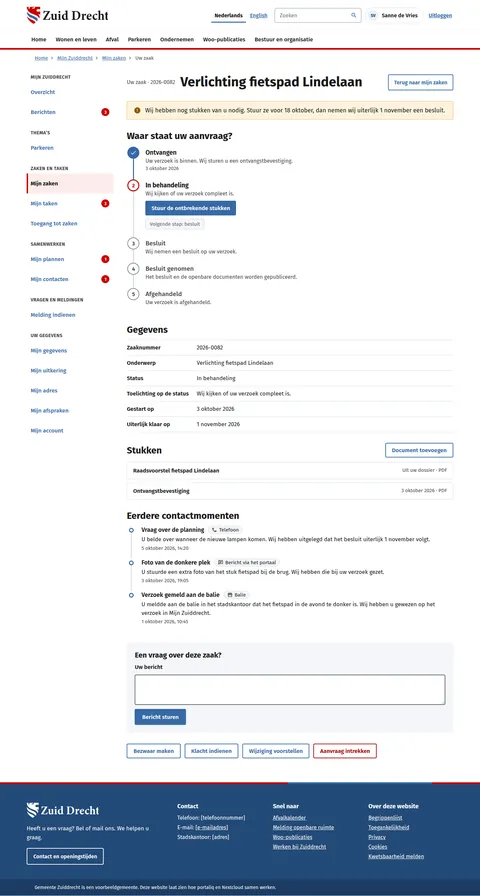
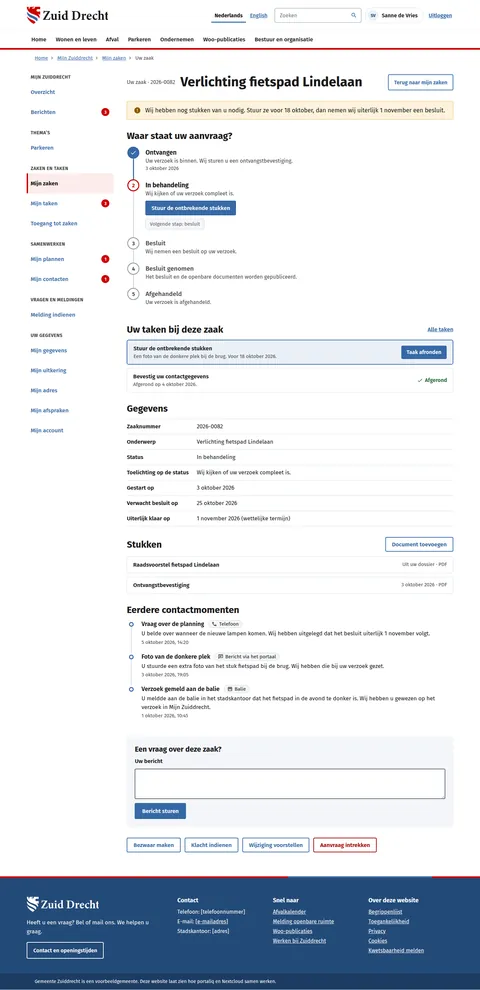
feat(screens): Zaak draws the tasks on the case and the expected decision date; case boards name their rows
Zaak gets a section with the tasks on the case (one open with Complete task, one completed) and the expected decision date beside the legal latest date. The capability notes of Zaak, MobielZaak, ZaakAfgerond, TaakAfronden and ZaakVolgen name the portaliq matrix rows and specs they draw (cas-detail, cmp-cas-status-timeline, cas-tasks-on-case, cas-expected-decision-date, cas-status-call-to-action, cmp-act-ask-question-case, dem-tnd-portal-talk-on-case, dem-cl-case-outcome-explained, int-status-lookup).

Portaliq coverage matrix, gap list (b), lane pt-boards-b.

diff --git a/screens-src/zuiddrecht/Zaak.dc.html b/screens-src/zuiddrecht/Zaak.dc.html
@@ -48,6 +48,21 @@ a{color:#3669a5}a:hover{color:#234a78}
           </sc-for>
         </ol>
       </section>
+      <section aria-labelledby="taken" style="display: flex; flex-direction: column; gap: 14px">
+        <div style="display: flex; flex-wrap: wrap; justify-content: space-between; align-items: center; gap: 12px">
+          <h2 id="taken" style="margin: 0; font-size: 28px; font-weight: 700">Uw taken bij deze zaak</h2>
+          <a href="MijnTaken.dc.html" style="font-size: 17px; font-weight: 600">Alle taken</a>
+        </div>
+        <ul style="margin: 0; padding: 0; list-style: none; display: flex; flex-direction: column; gap: 10px">
+          <sc-for list="{{ tasks }}" as="t" hint-placeholder-count="2">
+            <li style="{{ t.box }}">
+              <span style="display: flex; flex-direction: column; gap: 4px; min-width: 0; flex: 1 1 320px"><span style="font-size: 17px; font-weight: 600">{{ t.title }}</span><span style="font-size: 15px; color: #4a4a4a">{{ t.line }}</span></span>
+              <sc-if value="{{ t.open }}" hint-placeholder-val="{{ true }}"><a href="TaakAfronden.dc.html" style="display: inline-flex; align-items: center; height: 40px; box-sizing: border-box; padding: 0 16px; border-radius: 4px; background: #3669a5; color: #ffffff; font-size: 16px; font-weight: 600; text-decoration: none">Taak afronden</a></sc-if>
+              <sc-if value="{{ t.done }}" hint-placeholder-val="{{ false }}"><span style="display: inline-flex; align-items: center; gap: 6px; font-size: 16px; font-weight: 600; color: #1f6b3a"><svg width="18" height="18" viewBox="0 0 24 24" fill="currentColor" aria-hidden="true"><path d="M21,7L9,19L3.5,13.5L4.91,12.09L9,16.17L19.59,5.59L21,7Z"></path></svg>Afgerond</span></sc-if>
+            </li>
+          </sc-for>
+        </ul>
+      </section>
       <section aria-labelledby="gegevens" style="display: flex; flex-direction: column; gap: 14px">
         <h2 id="gegevens" style="margin: 0; font-size: 28px; font-weight: 700">Gegevens</h2>
         <dl style="margin: 0; display: grid; grid-template-columns: minmax(180px, max-content) 1fr; gap: 0; font-size: 17px; border-top: 1px solid #d3d8df">
@@ -125,7 +140,13 @@ class Component extends DCLogic {
     const facts = [
       { k: 'Zaaknummer', v: '2026-0082' }, { k: 'Onderwerp', v: 'Verlichting fietspad Lindelaan' },
       { k: 'Status', v: 'In behandeling' }, { k: 'Toelichting op de status', v: 'Wij kijken of uw verzoek compleet is.' },
-      { k: 'Gestart op', v: '3 oktober 2026' }, { k: 'Uiterlijk klaar op', v: '1 november 2026' }
+      { k: 'Gestart op', v: '3 oktober 2026' }, { k: 'Verwacht besluit op', v: '25 oktober 2026' },
+      { k: 'Uiterlijk klaar op', v: '1 november 2026 (wettelijke termijn)' }
+    ];
+    const taskBox = (open) => 'display: flex; flex-wrap: wrap; justify-content: space-between; align-items: center; gap: 12px 16px; padding: 14px 18px; border-radius: 6px; ' + (open ? 'border: 2px solid #3669a5; background: #eaf0f7;' : 'border: 1px solid #d3d8df;');
+    const tasks = [
+      { title: 'Stuur de ontbrekende stukken', line: 'Een foto van de donkere plek bij de brug. Voor 18 oktober 2026.', open: true, done: false, box: taskBox(true) },
+      { title: 'Bevestig uw contactgegevens', line: 'Afgerond op 4 oktober 2026.', open: false, done: true, box: taskBox(false) }
     ];
     const contactRows = [
       ['Telefoon', 'M20,15.5C18.8,15.5 17.5,15.3 16.4,14.9C16.3,14.9 16.2,14.9 16.1,14.9C15.8,14.9 15.6,15 15.4,15.2L13.2,17.4C10.4,15.9 8,13.6 6.6,10.8L8.8,8.6C9.1,8.3 9.2,7.9 9,7.6C8.7,6.5 8.5,5.2 8.5,4C8.5,3.5 8,3 7.5,3H4C3.5,3 3,3.5 3,4C3,13.4 10.6,21 20,21C20.5,21 21,20.5 21,20V16.5C21,16 20.5,15.5 20,15.5M5,5H6.5C6.6,5.9 6.8,6.8 7,7.6L5.8,8.8C5.4,7.6 5.1,6.3 5,5M19,19C17.7,18.9 16.4,18.6 15.2,18.2L16.4,17C17.2,17.2 18.1,17.4 19,17.4V19Z', 'Vraag over de planning', 'U belde over wanneer de nieuwe lampen komen. Wij hebben uitgelegd dat het besluit uiterlijk 1 november volgt.', '5 oktober 2026, 14:20', '2026-10-05T14:20'],
@@ -133,7 +154,7 @@ class Component extends DCLogic {
       ['Balie', 'M5.06 3C4.63 3 4.22 3.14 3.84 3.42S3.24 4.06 3.14 4.5L2.11 8.91C1.86 10 2.06 10.95 2.72 11.77L3 12.05V19C3 19.5 3.2 20 3.61 20.39S4.5 21 5 21H19C19.5 21 20 20.8 20.39 20.39S21 19.5 21 19V12.05L21.28 11.77C21.94 10.95 22.14 10 21.89 8.91L20.86 4.5C20.73 4.06 20.5 3.7 20.13 3.42C19.77 3.14 19.38 3 18.94 3H5.06M18.89 4.97L19.97 9.38C20.06 9.81 19.97 10.2 19.69 10.55C19.44 10.86 19.13 11 18.75 11C18.44 11 18.17 10.9 17.95 10.66C17.73 10.43 17.61 10.16 17.58 9.84L16.97 5L18.89 4.97M5.06 5H7.03L6.42 9.84C6.3 10.63 5.91 11 5.25 11C4.84 11 4.53 10.86 4.31 10.55C4.03 10.2 3.94 9.81 4.03 9.38L5.06 5M9.05 5H11V9.7C11 10.05 10.89 10.35 10.64 10.62C10.39 10.88 10.08 11 9.7 11C9.36 11 9.07 10.88 8.84 10.59S8.5 10 8.5 9.66V9.5L9.05 5M13 5H14.95L15.5 9.5C15.58 9.92 15.5 10.27 15.21 10.57C14.95 10.87 14.61 11 14.2 11C13.89 11 13.61 10.88 13.36 10.62C13.11 10.35 13 10.05 13 9.7V5M7.45 12.05C8.08 12.67 8.86 13 9.8 13C10.64 13 11.38 12.67 12 12.05C12.69 12.67 13.45 13 14.3 13C15.17 13 15.92 12.67 16.55 12.05C17.11 12.67 17.86 13 18.8 13H19.03V19H5V13H5.25C6.16 13 6.89 12.67 7.45 12.05Z', 'Verzoek gemeld aan de balie', 'U meldde aan de balie in het stadskantoor dat het fietspad in de avond te donker is. Wij hebben u gewezen op het verzoek in Mijn Zuiddrecht.', '1 oktober 2026, 10:45', '2026-10-01T10:45']
     ];
     const contacts = contactRows.map(([channel, icon, subject, line, date, iso], i) => ({ channel, icon, subject, line, date, iso, notLast: i < contactRows.length - 1 }));
-    return { steps, facts, contacts, crumbs: [{ label: 'Home' }, { label: 'Mijn Zuiddrecht', href: 'MijnOverzicht.dc.html' }, { label: 'Mijn zaken', href: 'MijnZaken.dc.html' }, { label: 'Uw zaak' }] };
+    return { steps, facts, tasks, contacts, crumbs: [{ label: 'Home' }, { label: 'Mijn Zuiddrecht', href: 'MijnOverzicht.dc.html' }, { label: 'Mijn zaken', href: 'MijnZaken.dc.html' }, { label: 'Uw zaak' }] };
   }
 }
 </script>

diff --git a/preview/screens/boards/Zaak.html b/preview/screens/boards/Zaak.html
@@ -248,6 +248,27 @@ footer a{color:#ffffff}footer a:hover{color:#dfe8f3}
           
         </ol>
       </section>
+      <section aria-labelledby="taken" style="display: flex; flex-direction: column; gap: 14px">
+        <div style="display: flex; flex-wrap: wrap; justify-content: space-between; align-items: center; gap: 12px">
+          <h2 id="taken" style="margin: 0; font-size: 28px; font-weight: 700">Uw taken bij deze zaak</h2>
+          <a href="MijnTaken.html" style="font-size: 17px; font-weight: 600">Alle taken</a>
+        </div>
+        <ul style="margin: 0; padding: 0; list-style: none; display: flex; flex-direction: column; gap: 10px">
+          
+            <li style="display: flex; flex-wrap: wrap; justify-content: space-between; align-items: center; gap: 12px 16px; padding: 14px 18px; border-radius: 6px; border: 2px solid var(--sc-primary, #3669a5); background: var(--sc-primary-light, #eaf0f7);">
+              <span style="display: flex; flex-direction: column; gap: 4px; min-width: 0; flex: 1 1 320px"><span style="font-size: 17px; font-weight: 600">Stuur de ontbrekende stukken</span><span style="font-size: 15px; color: var(--sc-site-muted, #4a4a4a)">Een foto van de donkere plek bij de brug. Voor 18 oktober 2026.</span></span>
+              <a href="TaakAfronden.html" style="display: inline-flex; align-items: center; height: 40px; box-sizing: border-box; padding: 0 16px; border-radius: 4px; background: var(--sc-primary, #3669a5); color: #ffffff; font-size: 16px; font-weight: 600; text-decoration: none">Taak afronden</a>
+              
+            </li>
+          
+            <li style="display: flex; flex-wrap: wrap; justify-content: space-between; align-items: center; gap: 12px 16px; padding: 14px 18px; border-radius: 6px; border: 1px solid var(--sc-site-border, #d3d8df);">
+              <span style="display: flex; flex-direction: column; gap: 4px; min-width: 0; flex: 1 1 320px"><span style="font-size: 17px; font-weight: 600">Bevestig uw contactgegevens</span><span style="font-size: 15px; color: var(--sc-site-muted, #4a4a4a)">Afgerond op 4 oktober 2026.</span></span>
+              
+              <span style="display: inline-flex; align-items: center; gap: 6px; font-size: 16px; font-weight: 600; color: #1f6b3a"><svg width="18" height="18" viewbox="0 0 24 24" fill="currentColor" aria-hidden="true"><path d="M21,7L9,19L3.5,13.5L4.91,12.09L9,16.17L19.59,5.59L21,7Z"></path></svg>Afgerond</span>
+            </li>
+          
+        </ul>
+      </section>
       <section aria-labelledby="gegevens" style="display: flex; flex-direction: column; gap: 14px">
         <h2 id="gegevens" style="margin: 0; font-size: 28px; font-weight: 700">Gegevens</h2>
         <dl style="margin: 0; display: grid; grid-template-columns: minmax(180px, max-content) 1fr; gap: 0; font-size: 17px; border-top: 1px solid var(--sc-site-border, #d3d8df)">
@@ -267,8 +288,11 @@ footer a{color:#ffffff}footer a:hover{color:#dfe8f3}
             <dt style="padding: 12px 24px 12px 0; border-bottom: 1px solid var(--sc-site-border, #d3d8df); font-weight: 600">Gestart op</dt>
             <dd style="margin: 0; padding: 12px 0; border-bottom: 1px solid var(--sc-site-border, #d3d8df)">3 oktober 2026</dd>
           
+            <dt style="padding: 12px 24px 12px 0; border-bottom: 1px solid var(--sc-site-border, #d3d8df); font-weight: 600">Verwacht besluit op</dt>
+            <dd style="margin: 0; padding: 12px 0; border-bottom: 1px solid var(--sc-site-border, #d3d8df)">25 oktober 2026</dd>
+          
             <dt style="padding: 12px 24px 12px 0; border-bottom: 1px solid var(--sc-site-border, #d3d8df); font-weight: 600">Uiterlijk klaar op</dt>
-            <dd style="margin: 0; padding: 12px 0; border-bottom: 1px solid var(--sc-site-border, #d3d8df)">1 november 2026</dd>
+            <dd style="margin: 0; padding: 12px 0; border-bottom: 1px solid var(--sc-site-border, #d3d8df)">1 november 2026 (wettelijke termijn)</dd>
           
         </dl>
       </section>
